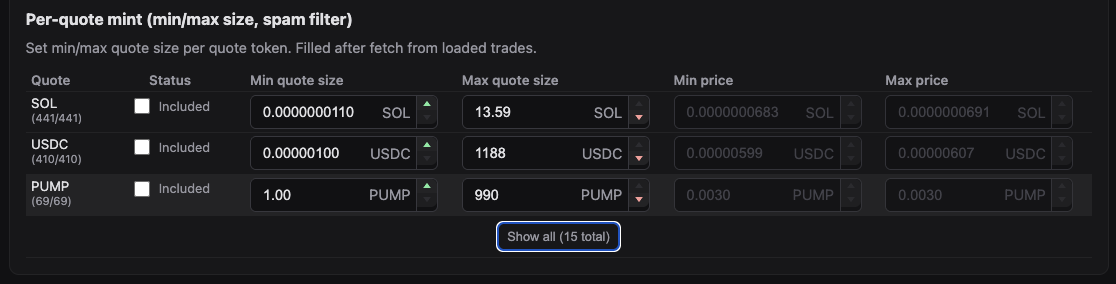
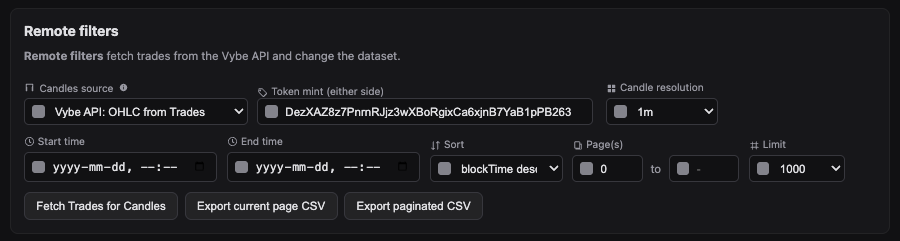
Filter: MIN_COUNT_TOP5 500 when top market >= 500 else 50; README and screenshots
Made-with: Cursor

diff --git a/src/frontend/app.ts b/src/frontend/app.ts
@@ -1269,8 +1269,9 @@ function buildLocalFilterRows(remoteTradesOverride?: VybeTrade[]): void {
       // When filter wicks is on, auto-exclude low-count or low-rank markets.
       if (filterWicksCheckbox?.checked && combinedByMarket.length > 0) {
         if (combinedByMarket.length > 10) {
-          // More than 10 pools: include only the top 5 by count, and only if count >= 50.
-          const MIN_COUNT_TOP5 = 50;
+          // More than 10 pools: include only the top 5 by count. Min count = 500 if top market >= 500, else 50.
+          const topMarketCount = combinedByMarket[0]?.totalCount ?? 0;
+          const MIN_COUNT_TOP5 = topMarketCount >= 500 ? 500 : 50;
           const top5 = combinedByMarket.slice(0, 5);
           for (const entry of top5) {
             if (entry.totalCount >= MIN_COUNT_TOP5) excludedMarkets.delete(entry.marketAddress);

diff --git a/README.md b/README.md
@@ -4,11 +4,11 @@ This repository demonstrates how to use the Vybe Solana OHLC candlestick data AP
 
 Use this project as a reference implementation or starter kit for building Solana price charting UIs, backtesting pipelines, and on-chain candlestick data products powered by Vybe’s high-performance Solana OHLC API.
 
-![Solana Trade History API Historical Trade Data API](screenshots/solana-ohlc-candlestick-data-api-repo.png)
+![Solana OHLC Candlestick Data API Repo](screenshots/solana-ohlc-candlestick-data-api-repo.png)
 
 <p align="center">
-  <img src="screenshots/solana-ohlc-data-provider-fetch-candlesticks.png" alt="Solana Historical Trade Data API Endpoint" width="340" style="min-width:340px;max-width:340px;margin-right:10px;" />
-  <img src="screenshots/solana-ohlc-api-endpoint-candlestick-charts.png" alt="Pump.fun Raydium Historical Data API Endpoint Provider on Solana" width="320" style="min-width:320px;max-width:320px;" />
+  <img src="screenshots/solana-ohlc-data-provider-fetch-candlesticks.png" alt="Solana OHLC Data Provider Fetch Candlesticks" width="340" style="min-width:340px;max-width:340px;margin-right:10px;" />
+  <img src="screenshots/solana-ohlc-api-endpoint-candlestick-charts.png" alt="Solana OHLC API Endpoint Candlesticks Charts" width="320" style="min-width:320px;max-width:320px;" />
 </p>
 
 ---
@@ -140,8 +140,6 @@ The OHLC candlestick UI is implemented in `src/frontend/app.ts` and compiled to 
     - Links to Solscan for account and transaction inspection.
   - Supports pagination via limit, pageFrom, and pages-to-fetch controls.
 
-![Solana Trade API Fetch Filter Quotes API](screenshots/solana-trade-api-fetch-filter-quotes.png)
-
 - **Rebuild from trades panel**
   - Visible when candle source is “OHLC from Trades”. Chart quote dropdown, pages to fetch, Authority = fee payer, No gaps, **Filter Wicks** (On/Show Outliers, lookback trades, deviation %), and per-quote/per-market table with include/exclude and program labels.
 
@@ -163,7 +161,7 @@ The OHLC candlestick UI is implemented in `src/frontend/app.ts` and compiled to 
 
 ### Remote filters (Vybe query params)
 
-![Solana Trade Fetch Filter Local API](screenshots/solana-fetch-trades-api-remote-filters-token.png)
+![Solana Trade API Fetch Filter Quotes API](screenshots/solana-trade-api-fetch-filter-quotes.png)
 
 The top of the UI controls the request sent to the API:
 
@@ -181,7 +179,6 @@ These map to the proxy routes in `src/server.ts` and are forwarded to Vybe.
 
 ### Local filters (no refetch)
 
-![Solana Trade Fetch Filter Local API](screenshots/solana-trade-fetch-filter-local.png)
 
 After trades are loaded (OHLC from Trades mode), local filters apply **in-browser only**:
 
@@ -196,7 +193,7 @@ Local filters update the trades table, the per-quote/per-market table, and the c
 
 ### Per-quote / per-market exclusions
 
-![Solana Trade API Fetch Filter Quotes API](screenshots/solana-trade-api-fetch-filter-quotes.png)
+![Solana Market Pool Fetching API Filter Candlesticks](screenshots/solana-market-pool-fetching-api-filter-candlesticks.png)
 
 Exclusions are stored in `excludedQuoteMints` and `excludedMarkets` in `src/frontend/app.ts`:
 